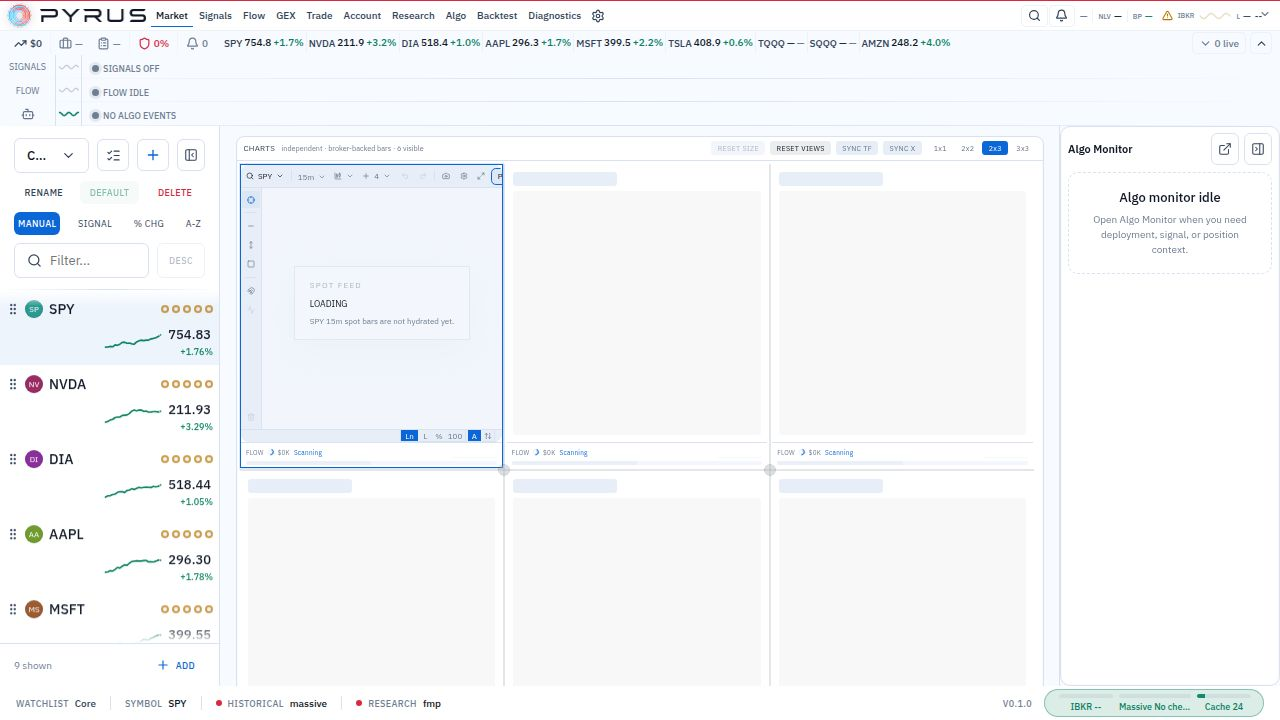
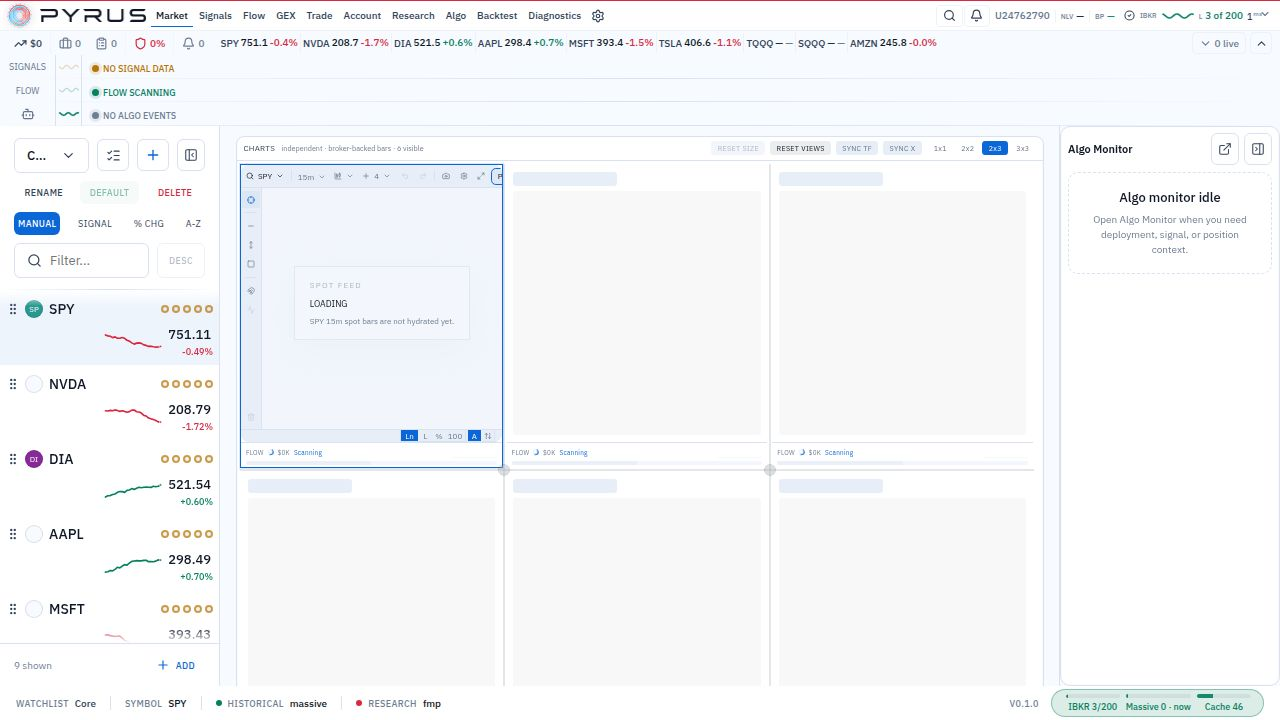
Wait for the API to be ready before starting the development server
Restore the API health check before starting Vite, preventing proxy errors and ensuring a stable development environment.

Replit-Commit-Author: Agent
Replit-Commit-Session-Id: d56ae97d-ce5b-4897-beba-c1c01ae8f27e
Replit-Commit-Checkpoint-Type: full_checkpoint
Replit-Commit-Event-Id: f6538f30-1441-4102-87b1-3e66792e4c58
Replit-Commit-Screenshot-Url: https://storage.googleapis.com/screenshot-production-us-central1/5950eeb6-fc7d-4b18-87e8-8d1c0536942f/d56ae97d-ce5b-4897-beba-c1c01ae8f27e/Wpt0JLG
Replit-Helium-Checkpoint-Created: true

diff --git a/SESSION_HANDOFF_2026-06-16_a110ef2f-bff5-445b-aabe-ae62b2b2351d.md b/SESSION_HANDOFF_2026-06-16_a110ef2f-bff5-445b-aabe-ae62b2b2351d.md
@@ -1,0 +1,306 @@
+# Session Handoff — 2026-06-16
+
+## Session Metadata
+
+- Session ID: `a110ef2f-bff5-445b-aabe-ae62b2b2351d`
+- Saved At (MT): `2026-06-16 13:31:50 MDT`
+- Saved At (UTC): `2026-06-16T19:31:50.126Z`
+- Summary: 2026-06-16 13:31:50 MDT | a110ef2f-bff5-445b-aabe-ae62b2b2351d | find the 4 sessions we just dropped, use [samples/Screenshot 2026-06-16 115601.png] to help you
+- Runtime: `claude`
+- Repo Root: `/home/runner/workspace`
+- Thread CWD: `/home/runner/workspace`
+- Transcript Path: `/home/runner/.claude/projects/-home-runner-workspace/a110ef2f-bff5-445b-aabe-ae62b2b2351d.jsonl`
+- Branch: `main`
+- HEAD: `11dbc3161be075a0243a753c26f7a8e23a58b22e`
+- Latest Commit: `Post-merge setup completed successfully`
+- Latest Commit Session ID: `d56ae97d-ce5b-4897-beba-c1c01ae8f27e`
+- Title: find the 4 sessions we just dropped, use [samples/Screenshot 2026-06-16 115601.png] to help you
+- Model: `claude-opus-4-8`
+- Reasoning Effort: `unknown`
+- Tokens Used: `unknown`
+
+## Current User Request
+
+find the 4 sessions we just dropped, use [samples/Screenshot 2026-06-16 115601.png] to help you
+
+## Prior Handoffs
+
+- `SESSION_HANDOFF_2026-06-13_019ec132-92d0-78c1-a21c-4f5d378afa46.md`
+- `SESSION_HANDOFF_2026-06-12_019ebe12-b4b7-7281-95b2-698b1d4bfc05.md`
+- `SESSION_HANDOFF_2026-06-12_019ebd74-8d06-7071-a225-67ce7a538918.md`
+- `SESSION_HANDOFF_2026-06-12_019ebd74-85d5-71a1-8b64-7624988e5a5b.md`
+- `SESSION_HANDOFF_2026-06-12_019ebd73-c854-73d0-99dd-2c4a8b381f19.md`
+- `SESSION_HANDOFF_2026-06-12_019ebcc7-8221-7bd1-bae0-aeef66f2a47c.md`
+- `SESSION_HANDOFF_2026-06-12_019ebc2a-0433-7f33-90eb-21fe32f49ab5.md`
+- `SESSION_HANDOFF_2026-06-12_019ebbdd-48b3-7190-9048-c79405308314.md`
+- `SESSION_HANDOFF_2026-06-12_019ebbd7-a838-7d13-a8d9-5d7897e14d0f.md`
+- `SESSION_HANDOFF_2026-06-12_019ebbd5-43cd-7c81-87a4-de8ee2a46199.md`
+- `SESSION_HANDOFF_2026-06-11_pending-sta-action-source-trace.md`
+- `SESSION_HANDOFF_2026-06-11_019eb95b-6597-74d2-929d-76355493dfbd.md`
+- `SESSION_HANDOFF_2026-06-11_019eb80c-7659-7300-92ce-22b8bd89275c.md`
+- `SESSION_HANDOFF_2026-06-11_019eb80c-5d1b-7d03-a551-1ec17ef91788.md`
+- `SESSION_HANDOFF_2026-06-11_019eb7fd-6cfb-7432-a96b-b65a23fee54d.md`
+- `SESSION_HANDOFF_2026-06-11_019eb7fb-f024-78a2-9fc3-058529429d01.md`
+- `SESSION_HANDOFF_2026-06-11_019eb7f1-23f6-7853-a3be-c4f5a00fce37.md`
+- `SESSION_HANDOFF_2026-06-11_019eb7f0-feb4-75c0-a144-af7a7eda05f8.md`
+- `SESSION_HANDOFF_2026-06-11_019eb7f0-db13-7a12-bd98-22efb8b7408a.md`
+- `SESSION_HANDOFF_2026-06-11_019eb7f0-ba1a-72f2-9be4-b9b0c91c873c.md`
+- `SESSION_HANDOFF_2026-06-11_019eb7ee-d363-7d01-bec6-79361d86915a.md`
+- `SESSION_HANDOFF_2026-06-11_019eb7e8-b0e1-7a63-aa86-8fde89eac69c.md`
+- `SESSION_HANDOFF_2026-06-11_019eb7d7-c610-76c1-9b43-25a82e66e5e2.md`
+- `SESSION_HANDOFF_2026-06-11_019eb7d0-5bce-75a3-8f85-74b2c38225fa.md`
+- `SESSION_HANDOFF_2026-06-11_019eb7c2-9c54-7870-8152-e6f9a6f9be6b.md`
+- `SESSION_HANDOFF_2026-06-11_019eb7b4-d4bd-7573-adf9-ae184361696f.md`
+- `SESSION_HANDOFF_2026-06-11_019eb7b2-4b1e-7160-9796-b203f9392d27.md`
+- `SESSION_HANDOFF_2026-06-11_019eb7a8-d0bc-7910-a8b5-aafaf1750bc1.md`
+- `SESSION_HANDOFF_2026-06-11_019eb7a8-9ba6-7ad1-9555-e8b647c6c363.md`
+- `SESSION_HANDOFF_2026-06-11_019eb7a3-d912-7ec3-8667-3c8c83630d72.md`
+- `SESSION_HANDOFF_2026-06-11_019eb788-9135-7151-a47f-38a32fe28fa5.md`
+- `SESSION_HANDOFF_2026-06-11_019eb77c-c335-7290-8f57-822c79025541.md`
+- `SESSION_HANDOFF_2026-06-10_019eb3df-e2f3-73f1-bb4c-18d95c4a5075.md`
+- `SESSION_HANDOFF_2026-06-09_019eaea5-da22-7eb0-b361-dd2339bb136a.md`
+- `SESSION_HANDOFF_2026-06-09_019eae66-0e88-7431-82ce-e7909cea1b55.md`
+- `SESSION_HANDOFF_2026-06-09_019eae19-7225-7e60-8c45-e32bd10b2c21.md`
+- `SESSION_HANDOFF_2026-06-09_019eae05-eacb-7d50-a8dd-8323ada25d22.md`
+- `SESSION_HANDOFF_2026-06-09_019eae02-420b-7fa1-953a-b1abcc2622bd.md`
+- `SESSION_HANDOFF_2026-06-09_019eadfc-2cd0-78f2-b041-bbb600dbade3.md`
+- `SESSION_HANDOFF_2026-06-09_019eade0-4046-70c3-975d-0cc3b0aee56a.md`
+- `SESSION_HANDOFF_2026-06-09_019eade0-0422-7320-bbc6-22643066d321.md`
+- `SESSION_HANDOFF_2026-06-09_019eadd8-e8e2-70c2-a7ff-fb5eefa135a4.md`
+- `SESSION_HANDOFF_2026-06-09_019eadd4-25b3-7b52-949e-eda0aa2eafa7.md`
+- `SESSION_HANDOFF_2026-06-09_019eadc4-e336-7472-87f1-7f6600f9b4b7.md`
+- `SESSION_HANDOFF_2026-06-09_019ead78-0a4d-79c0-8333-f9e67135e8ca.md`
+- `SESSION_HANDOFF_2026-06-09_019ead4a-2fc8-7b61-a989-2a78762f17c2.md`
+- `SESSION_HANDOFF_2026-06-09_019ead39-ed30-7151-916c-188f0a0c305d.md`
+- `SESSION_HANDOFF_2026-06-09_019eac9c-ec03-7de1-98f0-6421d5d8312a.md`
+- `SESSION_HANDOFF_2026-06-08_019eaac8-99ba-7072-9412-bf2eb1070bed.md`
+- `SESSION_HANDOFF_2026-06-08_019eaab5-1b86-7c60-875f-67b54a909239.md`
+- `SESSION_HANDOFF_2026-06-08_019eaa48-a445-7482-8aa5-21d669524581.md`
+- `SESSION_HANDOFF_2026-06-08_019eaa48-3cb6-7290-a56f-99c4a4af2d32.md`
+- `SESSION_HANDOFF_2026-06-08_019ea975-0cde-7cd2-a5bc-4892aee272c4.md`
+- `SESSION_HANDOFF_2026-06-08_019ea847-b017-7b53-a789-ccec852acccc.md`
+- `SESSION_HANDOFF_2026-06-08_019ea81a-ebe7-7642-a873-09562ba0de35.md`
+- `SESSION_HANDOFF_2026-06-08_019ea81a-819e-7841-9d0f-1e9a601a4691.md`
+- `SESSION_HANDOFF_2026-06-08_019ea814-21e3-7672-9b64-7eeae3ff07d2.md`
+- `SESSION_HANDOFF_2026-06-08_019ea813-0e32-7543-ab00-303e24d7008a.md`
+- `SESSION_HANDOFF_2026-06-08_019ea812-8281-75d2-b082-8e5b5be596db.md`
+- `SESSION_HANDOFF_2026-06-08_019ea765-6876-7d92-80df-62338c1ffa87.md`
+- `SESSION_HANDOFF_2026-06-08_019ea72c-b88f-7f52-9b85-87faa59c57e5.md`
+- `SESSION_HANDOFF_2026-06-08_019ea4a9-b0c1-70e0-aa79-7f3fc45be403.md`
+- `SESSION_HANDOFF_2026-06-07_019ea43b-d49a-7f52-b5c9-d587e6c6040c.md`
+- `SESSION_HANDOFF_2026-06-07_019ea437-deef-7981-9fe7-82c12513ffde.md`
+- `SESSION_HANDOFF_2026-06-06_019e9de4-91e7-72b0-8853-3f70fd908c3e.md`
+- `SESSION_HANDOFF_2026-06-06_019e9ddc-1936-7d52-a57b-de5e92b1a11e.md`
+- `SESSION_HANDOFF_2026-06-06_019e9d7d-0f96-7750-9f11-dd41d293e473.md`
+- `SESSION_HANDOFF_2026-06-06_019e9d7b-30c5-7502-b87c-0ac35e2d4f6f.md`
+- `SESSION_HANDOFF_2026-06-05_signal-bubble-pending-hydration.md`
+- `SESSION_HANDOFF_2026-06-05_semantic-tone-rollout.md`
+- `SESSION_HANDOFF_2026-06-05_019e9a07-2756-7dc0-87c1-f22ac5fc79db.md`
+- `SESSION_HANDOFF_2026-06-05_019e9a00-0ec7-7531-ba91-041f6bd63385.md`
+- `SESSION_HANDOFF_2026-06-05_019e99c5-dd2d-7000-a813-5d649c3f3428.md`
+- `SESSION_HANDOFF_2026-06-05_019e9923-d8b9-7fc1-91d6-02a81091fe1e.md`
+- `SESSION_HANDOFF_2026-06-05_019e9923-c551-74c0-8f7a-4f4419b923ee.md`
+- `SESSION_HANDOFF_2026-06-05_019e9923-1b8d-7cb0-9f8e-8cd49d80292a.md`
+- `SESSION_HANDOFF_2026-06-04_019e953f-041b-71c3-a43e-542a8ef6e00d.md`
+- `SESSION_HANDOFF_2026-06-04_019e9539-fcdb-7352-ba37-146876d76a81.md`
+- `SESSION_HANDOFF_2026-06-04_019e9539-e3ff-7141-9ec2-b2bdd077e69e.md`
+- `SESSION_HANDOFF_2026-06-04_019e9538-ef1f-70c0-9659-e0ad9176a023.md`
+- `SESSION_HANDOFF_2026-06-04_019e94a9-bc59-7e40-93d2-8f113348cca2.md`
+- `SESSION_HANDOFF_2026-06-04_019e940a-cceb-7790-889f-d5534cc0814c.md`
+- `SESSION_HANDOFF_2026-06-04_019e934b-5d2a-7ab2-8676-71145b8a4c03.md`
+- `SESSION_HANDOFF_2026-06-04_019e92c2-ff99-78e0-a36f-3ddb9c03a700.md`
+- `SESSION_HANDOFF_2026-06-04_019e92c1-77d0-7fd0-b7e3-01bb797e2227.md`
+- `SESSION_HANDOFF_2026-06-03_mtf-entry-sweep-ui.md`
+- `SESSION_HANDOFF_2026-06-03_019e909f-4ab7-7f32-9321-237e31de2032.md`
+- `SESSION_HANDOFF_2026-06-03_019e9091-8f8f-75c0-be2c-f9ccbaa788b4.md`
+- `SESSION_HANDOFF_2026-06-03_019e9071-13a9-7603-a5fd-ed951f5273d5.md`
+- `SESSION_HANDOFF_2026-06-03_019e906b-b44d-76d2-a8d5-020be84bba6e.md`
+- `SESSION_HANDOFF_2026-06-03_019e9066-b78f-7160-b516-c85c2e7fe345.md`
+- `SESSION_HANDOFF_2026-06-03_019e8ed9-7dcd-7812-982f-a2d96ed0676f.md`
+- `SESSION_HANDOFF_2026-06-03_019e8ed7-2665-7a70-8107-953700380a4b.md`
+- `SESSION_HANDOFF_2026-06-03_019e8e1a-67c0-7de1-a96e-f28098f0d355.md`
+- `SESSION_HANDOFF_2026-06-03_019e8e19-f0f6-7a02-b8da-97fb302cf399.md`
+- `SESSION_HANDOFF_2026-06-02_signals-timeframe-hydration.md`
+- `SESSION_HANDOFF_2026-06-02_signal-bubbles-matrix-diagnosis.md`
+- `SESSION_HANDOFF_2026-06-02_019e8afa-5620-70f1-a4b6-bf40e41e7aa5.md`
+- `SESSION_HANDOFF_2026-06-02_019e8afa-4637-70b2-971a-b6a37b9539b7.md`
+- `SESSION_HANDOFF_2026-06-02_019e8afa-10bc-76e0-96b3-1facd819d790.md`
+- `SESSION_HANDOFF_2026-06-02_019e8ac2-edd3-7d53-b81e-2ee862972acc.md`
+- `SESSION_HANDOFF_2026-06-02_019e8ac1-f364-7743-bee6-66c240b2b44d.md`
+- `SESSION_HANDOFF_2026-06-02_019e8aaa-6793-77b1-90fc-1e053f373563.md`
+- `SESSION_HANDOFF_2026-06-02_019e89ba-27c7-7560-804d-9a02b2a94b74.md`
+- `SESSION_HANDOFF_2026-06-02_019e89b9-c29e-7541-baf7-7d9d4d5803fd.md`
+- `SESSION_HANDOFF_2026-06-02_019e89a7-e15d-77f1-9820-862e90a38123.md`
+- `SESSION_HANDOFF_2026-06-02_019e898a-b316-7df3-8842-2f179ad5d122.md`
+- `SESSION_HANDOFF_2026-06-02_019e8972-55bb-7641-ab8b-02a041961ad6.md`
+- `SESSION_HANDOFF_2026-06-02_019e8971-d31f-7720-9983-d413f637e126.md`
+- `SESSION_HANDOFF_2026-06-02_019e8971-1dc4-75b2-9c36-4d78d5f75203.md`
+- `SESSION_HANDOFF_2026-06-02_019e889a-133d-75f3-922f-fc54c144ea94.md`
+- `SESSION_HANDOFF_2026-06-02_019e8897-3487-71b3-b357-5dcbc6b7ac6d.md`
+- `SESSION_HANDOFF_2026-06-02_019e8870-4fd3-7130-aa12-b6324b163918.md`
+- `SESSION_HANDOFF_2026-06-02_019e886f-b02b-70e1-8c40-018f3b7100e3.md`
+- `SESSION_HANDOFF_2026-06-01_75218067-d9b9-4264-8b7a-3243c1a06ca1.md`
+- `SESSION_HANDOFF_2026-06-01_019e862d-a38a-7a50-ab58-9801840e30fc.md`
+- `SESSION_HANDOFF_2026-06-01_019e862c-7a64-7982-b62e-6ed0423a8457.md`
+- `SESSION_HANDOFF_2026-06-01_019e8620-30a2-7792-8500-16c95843972c.md`
+- `SESSION_HANDOFF_2026-06-01_019e8583-e862-7bb1-8560-5db3658c7345.md`
+- `SESSION_HANDOFF_2026-06-01_019e856f-e49f-7fb0-941e-fd5c610c8e35.md`
+- `SESSION_HANDOFF_2026-06-01_019e856e-bffa-7833-b2b7-da4c35f1f4ed.md`
+- `SESSION_HANDOFF_2026-06-01_019e856e-09fe-7de1-b9bc-28878b14c985.md`
+- `SESSION_HANDOFF_2026-06-01_019e856c-a253-71f2-9ad3-d53939c3f375.md`
+- `SESSION_HANDOFF_2026-06-01_019e84ed-e068-7de2-ad5e-d900df7d26c1.md`
+- `SESSION_HANDOFF_2026-06-01_019e84aa-d2bd-7103-91a9-a73c9fcfb9c1.md`
+- `SESSION_HANDOFF_2026-06-01_019e84aa-c1d5-79e1-adba-5a743d03c8cc.md`
+- `SESSION_HANDOFF_2026-06-01_019e84aa-83ed-7462-8cd5-1c29cc47fbd7.md`
+- `SESSION_HANDOFF_2026-06-01_019e84aa-1f90-7b41-b68e-5b0b7120b56c.md`
+- `SESSION_HANDOFF_2026-06-01_019e8411-18fc-7911-9c4d-4aeecba402ac.md`
+- `SESSION_HANDOFF_2026-06-01_019e83a8-59ca-7843-b17d-1eb1b26d5363.md`
+- `SESSION_HANDOFF_2026-06-01_019e838b-6af5-7b72-b4aa-ee78a7bd3449.md`
+- `SESSION_HANDOFF_2026-06-01_019e8368-7762-7122-81b8-8a37bfbb0e60.md`
+- `SESSION_HANDOFF_2026-06-01_019e8366-b25f-7921-bbd5-2bfc17403296.md`
+- `SESSION_HANDOFF_2026-06-01_019e8361-9248-72a3-9743-ffd530b4d55e.md`
+- `SESSION_HANDOFF_2026-05-31_019e80a2-9969-70a2-a92d-39cf6a379925.md`
+- `SESSION_HANDOFF_2026-05-31_019e8076-ad60-7ee3-9c89-87f101b7545a.md`
+- `SESSION_HANDOFF_2026-05-31_019e802e-8fc0-77a0-8857-7f3208f84734.md`
+- `SESSION_HANDOFF_2026-05-31_019e802d-7aa8-7832-9d3b-d9a1f55357d2.md`
+- `SESSION_HANDOFF_2026-05-31_019e802d-21e9-7bf1-961a-4c205f226e9e.md`
+- `SESSION_HANDOFF_2026-05-31_019e7ff7-d9da-7333-9c5f-43f9156a8d45.md`
+- `SESSION_HANDOFF_2026-05-31_019e7fc7-29fb-7991-9d61-98d6224fb6da.md`
+- `SESSION_HANDOFF_2026-05-31_019e7fa4-ed2e-70e1-ac7f-a54fee386518.md`
+- `SESSION_HANDOFF_2026-05-31_019e7fa0-bbf9-7033-ad99-00fd18019559.md`
+- `SESSION_HANDOFF_2026-05-31_019e7f62-78ff-7773-a075-7f29d6a5269f.md`
+- `SESSION_HANDOFF_2026-05-31_019e7f59-b4e2-7303-9a13-63ee370879ca.md`
+- `SESSION_HANDOFF_2026-05-31_019e7f57-871a-71d2-8eb5-2662044d89b6.md`
+- `SESSION_HANDOFF_2026-05-31_019e7f57-3814-7572-a4ab-f649059f9b14.md`
+- `SESSION_HANDOFF_2026-05-31_019e7e9b-e240-7c30-98d2-a1ad94723f11.md`
+- `SESSION_HANDOFF_2026-05-30_019e7acd-c715-7200-b4a6-1bb0adf72b13.md`
+- `SESSION_HANDOFF_2026-05-30_019e7acd-1f10-7e00-9474-efbb5051b670.md`
+- `SESSION_HANDOFF_2026-05-30_019e7a9a-5ec9-7eb3-95f1-d0c5503ed8a0.md`
+- `SESSION_HANDOFF_2026-05-30_019e7a20-0e2f-73f1-ae20-ddf1fb495be5.md`
+- `SESSION_HANDOFF_2026-05-30_019e7995-e4a1-7bf2-b6a0-339a98d29317.md`
+- `SESSION_HANDOFF_2026-05-30_019e7994-2d67-7883-840f-7d3c3d92d721.md`
+- `SESSION_HANDOFF_2026-05-29_019e752f-259e-7553-9866-4b0c4544dd05.md`
+- `SESSION_HANDOFF_2026-05-29_019e752d-9895-7653-936f-31f010b764d5.md`
+- `SESSION_HANDOFF_2026-05-29_019e752a-b590-79a3-a82b-ee464537fd82.md`
+- `SESSION_HANDOFF_2026-05-29_019e7529-c353-7b83-a39a-5f8a0fe69745.md`
+- `SESSION_HANDOFF_2026-05-29_019e7499-013e-7c80-ad40-9c917f319149.md`
+- `SESSION_HANDOFF_2026-05-29_019e7442-882b-7a13-b625-d886421780aa.md`
+- `SESSION_HANDOFF_2026-05-29_019e742a-a3f1-71b3-8374-b51029016cbf.md`
+- `SESSION_HANDOFF_2026-05-29_019e7426-9371-7430-9a71-6686f1347001.md`
+- `SESSION_HANDOFF_2026-05-29_019e7421-ba22-78a1-a721-7446ea362dd7.md`
+- `SESSION_HANDOFF_2026-05-28_019e6f40-5f2f-78f1-afca-4032e91e55db.md`
+- `SESSION_HANDOFF_2026-05-28_019e6f32-5565-76d0-8ae0-06b4e2e30a0e.md`
+- `SESSION_HANDOFF_2026-05-28_019e6ea4-f32b-7261-8ca3-9d57cc9d40b5.md`
+- `SESSION_HANDOFF_2026-05-27_019e6bbb-f865-7563-96f6-ede09cfc4167.md`
+- `SESSION_HANDOFF_2026-05-26_019e654e-1409-7621-bde7-f8c231fda8d0.md`
+- `SESSION_HANDOFF_2026-05-26_019e6477-7493-7191-acfb-8aa632788e6c.md`
+- `SESSION_HANDOFF_2026-05-25_019e6049-463f-7ab0-a520-95e909a2eff6.md`
+- `SESSION_HANDOFF_2026-05-22_019e509e-5038-7b20-a757-cf053441bc8d.md`
+- `SESSION_HANDOFF_2026-05-22_019e5096-b2ce-7881-83b4-84fd5ae9aea9.md`
+- `SESSION_HANDOFF_2026-05-22_019e4fde-9151-7940-a16a-b90a6bf12517.md`
+- `SESSION_HANDOFF_2026-05-22_019e4fdd-cf2f-77a2-84e7-35d48584074b.md`
+- `SESSION_HANDOFF_2026-05-22_019e4fd1-20ef-7931-9b08-e4cc646ccb00.md`
+- `SESSION_HANDOFF_2026-05-21_019e4e27-3e58-7c51-a2ee-431ce0637c44.md`
+- `SESSION_HANDOFF_2026-05-21_019e4d5e-ddaa-7d22-90ff-4b3b56c16ab1.md`
+- `SESSION_HANDOFF_2026-05-21_019e4d5d-d653-7702-86a8-c20a83ee23ff.md`
+- `SESSION_HANDOFF_2026-05-21_019e4d5c-a277-71d0-afd5-4a740991a8c6.md`
+- `SESSION_HANDOFF_2026-05-21_019e4c7a-19cf-7740-84f6-5eb3a1f36fae.md`
+- `SESSION_HANDOFF_2026-05-21_019e4c26-0d56-7120-b85e-bf5e18f14721.md`
+- `SESSION_HANDOFF_2026-05-21_019e4c16-3a66-7302-8ada-1206e23e11df.md`
+- `SESSION_HANDOFF_2026-05-21_019e4c15-88e9-7a42-aad0-86eed917c98a.md`
+- `SESSION_HANDOFF_2026-05-21_019e4c14-fe5e-7802-970c-bae01f8b7212.md`
+- `SESSION_HANDOFF_2026-05-21_019e4acb-958e-76f2-89fc-f534179f2902.md`
+- `SESSION_HANDOFF_2026-05-20_019e46ed-0bc3-78f3-bad7-f7ca24065531.md`
+- `SESSION_HANDOFF_2026-05-20_019e45cf-44f8-7fe2-87f5-7d055c00513f.md`
+- `SESSION_HANDOFF_2026-05-20_019e45ab-830c-76d1-8f63-448f25c8f681.md`
+- `SESSION_HANDOFF_2026-05-20_019e45a3-68ab-7160-ab80-038d09482d6a.md`
+- `SESSION_HANDOFF_2026-05-19_019e4057-cc09-7610-9cd5-2b159d78b023.md`
+- `SESSION_HANDOFF_2026-05-14_019e26f3-cc37-7351-94a3-c52aae3be0c7.md`
+- `SESSION_HANDOFF_2026-05-13_019e21ab-042e-7d62-82c5-621bb214aaf4.md`
+- `SESSION_HANDOFF_2026-05-13_019e219a-97c1-7c81-a23d-86233b1a8ccc.md`
+- `SESSION_HANDOFF_2026-05-13_019e2194-a0c5-7fd1-8c6e-f3fd3869af34.md`
+- `SESSION_HANDOFF_2026-05-13_019e2191-5255-7b50-9d9d-d66432f7cc23.md`
+- `SESSION_HANDOFF_2026-05-13_019e2168-cce7-7f22-8a53-a394d6279949.md`
+- `SESSION_HANDOFF_2026-05-11_019e1777-ea5d-7a03-aa38-a7da139985d7.md`
+- `SESSION_HANDOFF_2026-05-08_019e0920-564f-78d0-8463-410e50e52b5d.md`
+- `SESSION_HANDOFF_2026-05-08_019e0826-0850-7bf2-8100-0b3eada42e32.md`
+- `SESSION_HANDOFF_2026-05-06_019dff8b-c488-7ec1-bab2-7eeca931697f.md`
+- `SESSION_HANDOFF_2026-05-06_019dff88-574a-74f3-8ead-27ea141dfd2f.md`
+- `SESSION_HANDOFF_2026-05-06_019dff6f-d657-70a2-bed9-7c3a2469bed7.md`
+- `SESSION_HANDOFF_2026-05-06_019dff68-fd69-7fd1-84aa-f97b89d2efe8.md`
+- `SESSION_HANDOFF_2026-05-06_019dff67-f5a1-7332-8624-585ac4cd1435.md`
+- `SESSION_HANDOFF_2026-05-06_019dff66-df3f-7bc1-abe4-39b68ed2dcff.md`
+- `SESSION_HANDOFF_2026-05-06_019dfe4d-4d96-7552-80ac-346c0646adb1.md`
+- `SESSION_HANDOFF_2026-05-06_019dfe49-d18c-7bd1-97d1-7e004ff154f0.md`
+- `SESSION_HANDOFF_2026-05-06_019dfe45-759c-77c0-b66f-9cc21addb43b.md`
+- `SESSION_HANDOFF_2026-05-06_019dfe1c-e228-72b2-932c-6d9faa06df81.md`
+
+## Recent User Messages
+
+- `2026-06-16 12:58:53 MDT` find the 4 sessions we just dropped, use [samples/Screenshot 2026-06-16 115601.png] to help you
+- `2026-06-16 13:01:40 MDT` [Request interrupted by user]
+- `2026-06-16 13:01:40 MDT` all have handoffs
+- `2026-06-16 13:09:30 MDT` i want to update how we do the handoffs progresively during sessions so we dont lose work and can find it easier
+
+## Session Activity Summary
+
+- `2026-06-16 12:58:53 MDT` User: find the 4 sessions we just dropped, use [samples/Screenshot 2026-06-16 115601.png] to help you
+- `2026-06-16 12:59:06 MDT` Agent: I'll start by invoking the session-handoff skill (this matches "find a dropped session") and looking at the screenshots you pointed me to.
+- `2026-06-16 12:59:07 MDT` Tool: Skill {"skill":"session-handoff","args":"recover the 4 dropped sessions from 2026-06-16"}
+- `2026-06-16 12:59:08 MDT` Tool: Read /home/runner/workspace/samples/Screenshot 2026-06-16 115601.png
+- `2026-06-16 12:59:08 MDT` Tool: Read /home/runner/workspace/samples/6-16 reconect lost sessions.png
+- `2026-06-16 12:59:58 MDT` Agent: Both screenshots show **4 parallel Claude Code terminal panes**, each a separate session in `~/workspace`, that got dropped. Reading the panes, I can already make out four distinc…
+- … 47 lower-signal transcript events omitted …
+- `2026-06-16 13:28:19 MDT` Tool: Write /home/runner/workspace/.claude/skills/session-handoff/scripts/claude-autosave-handoff.mjs
+- `2026-06-16 13:28:31 MDT` Agent: Now validate it and **dogfood it against this very session** — I'll back up the master/pointer first so I can confirm the upsert only adds one row.
+- `2026-06-16 13:28:40 MDT` Tool: Bash cd /home/runner/workspace echo "=== node --check ===" node --check .claude/skills/session-handoff/scripts/claude-autosave-handoff.mjs && echo "OK: syntax valid…
+- `2026-06-16 13:29:06 MDT` Agent: Exit 0, handoff created. Let me inspect the generated content and confirm the master index only gained one row (format intact).
+- `2026-06-16 13:29:09 MDT` Tool: Bash cd /home/runner/workspace SID="a110ef2f-bff5-445b-aabe-ae62b2b2351d" echo "=== generated handoff: metadata + a few sections (head) ===" sed -n '1,40p' "SESSION…
+- `2026-06-16 13:29:12 MDT` Tool: Bash cd /home/runner/workspace echo "=== MASTER diff (before -> after): should be ONE new row for our session ===" diff <(cat /tmp/MASTER.before) <(cat SESSION_HAND…
+- `2026-06-16 13:30:30 MDT` Agent: The dogfood is working correctly: real metadata captured (`runtime: claude`, model `claude-opus-4-8`, transcript path, this session's actual messages + tool activity), master gain…
+- `2026-06-16 13:30:38 MDT` Tool: Edit /home/runner/workspace/.claude/skills/session-handoff/scripts/claude-autosave-handoff.mjs
+- `2026-06-16 13:30:50 MDT` Agent: Re-test: confirm the handoff is now lean and the edge cases (SessionStart digest, subagent/empty payloads) all behave.
+- `2026-06-16 13:31:00 MDT` Tool: Bash cd /home/runner/workspace SID="a110ef2f-bff5-445b-aabe-ae62b2b2351d" TP="/home/runner/.claude/projects/-home-runner-workspace/${SID}.jsonl" node --check .claud…
+
+## High-Signal Changed Files
+
+- `SESSION_HANDOFF_CURRENT.md`
+- `SESSION_HANDOFF_MASTER.md`
+- `artifacts/pyrus/scripts/runDevApp.mjs`
+
+## Repo State Snapshot
+
+```text
+## main...origin/main [ahead 6]
+ M SESSION_HANDOFF_CURRENT.md
+ M SESSION_HANDOFF_MASTER.md
+ M artifacts/pyrus/scripts/runDevApp.mjs
+?? SESSION_HANDOFF_2026-06-16_a110ef2f-bff5-445b-aabe-ae62b2b2351d.md
+```
+
+## Diff Summary
+
+```text
+ SESSION_HANDOFF_CURRENT.md            | 39 +++++++++--------------------------
+ SESSION_HANDOFF_MASTER.md             |  5 +++--
+ artifacts/pyrus/scripts/runDevApp.mjs | 19 ++++-------------
+ 3 files changed, 17 insertions(+), 46 deletions(-)
+```
+
+## Validations Detected In Transcript
+
+- `2026-06-16 13:27:32 MDT` cd /home/runner/workspace echo "=== node --check (syntax) ===" node --check .claude/skills/session-handoff/scripts/write-session-handoff.mjs && echo "OK: synta… (ok)
+- `2026-06-16 13:29:01 MDT` cd /home/runner/workspace echo "=== node --check ===" node --check .claude/skills/session-handoff/scripts/claude-autosave-handoff.mjs && echo "OK: syntax valid… (ok)
+
+## What Changed This Session
+
+- Replace this section with the concrete product and code changes completed in the session.
+
+## Current Status
+
+- Replace this section with current validation status, blockers, and any known runtime gaps.
+
+## Next Recommended Steps
+
+1. Replace this item with the highest-priority next step.
+2. Replace this item with the next validation or bring-up step.

diff --git a/SESSION_HANDOFF_CURRENT.md b/SESSION_HANDOFF_CURRENT.md
@@ -2,42 +2,23 @@
 
 This is a pointer to the active durable handoff. Do not use this file as the full session narrative.
 
-- Last Updated (MT): `2026-06-13 10:24:43 MDT`
-- Last Updated (UTC): `2026-06-13T16:24:43Z`
-- Native Codex Session ID: `019ec132-92d0-78c1-a21c-4f5d378afa46`
-- Summary: Broker connection audit plus fast-launch, bridge-status, direct Windows protocol credential-handoff, and hidden-tab launch-wait fixes.
-- Handoff: `SESSION_HANDOFF_2026-06-13_019ec132-92d0-78c1-a21c-4f5d378afa46.md`
+- Last Updated (MT): `2026-06-16 13:31:23 MDT`
+- Last Updated (UTC): `2026-06-16T19:31:23.783Z`
+- Session ID: `a110ef2f-bff5-445b-aabe-ae62b2b2351d`
+- Summary: 2026-06-16 13:31:23 MDT | a110ef2f-bff5-445b-aabe-ae62b2b2351d | find the 4 sessions we just dropped, use [samples/Screenshot 2026-06-16 115601.png] to help you
+- Handoff: `SESSION_HANDOFF_2026-06-16_a110ef2f-bff5-445b-aabe-ae62b2b2351d.md`
 - Master Index: `SESSION_HANDOFF_MASTER.md`
 
 ## Current Status
 
-- Broker connection audit completed; frontend credential recovery fix implemented, Playwright dummy UI path validated, fast-launch rebuild implemented, bridge-status regression fixed, direct Windows protocol launch now keeps the Pyrus page alive for credential delivery, and hidden/backgrounded pages no longer wait indefinitely on launch `requestAnimationFrame`.
-- Main live finding: PowerShell/helper launch was fast; the original failure was browser credential delivery not reading the published helper key.
-- New launch-process fix removes desktop-agent `/desktop/jobs/claim` long-poll, removes the extra PowerShell process on remote launch, removes the blind 3s Gateway-start sleep, and removes browser `/login-key/read` long-poll.
-- Existing nearby model/readiness tests pass, but no tests cover `listBrokerConnections()`.
-- Playwright browser QA tooling is installed at the root: `@playwright/test@1.60.0`; Chromium headless smoke passed.
-- Backend watcher during Playwright found normal credential-handoff transitions, but also separate API/event-loop stall samples with endpoint delays up to `26-38s` outside the core handoff.
-- Latest regression root cause: `/api/diagnostics/runtime` had bridge backoff/reconnect failure details and stale helper update status, but `/api/session` stripped compact runtime fields and hid stale helper status when the desktop was offline.
-- Latest live watch root cause: direct Windows launch used `_self` custom-protocol navigation before credential delivery, so browser JS did not promptly call `/login-key/read` or post the encrypted credential envelope.
-- Latest source-level timing fix: launch/credential flow no longer awaits uncapped `requestAnimationFrame`, so minimizing/backgrounding the page cannot freeze the pre-launch feedback wait.
+- Replace this section with current validation status, blockers, and any known runtime gaps.
 
 ## Next Recommended Steps
 
-1. Refresh/rebuild Pyrus so `ibkrBridgeSession.js` uses the iframe launcher and `ibkrBridgeLaunchFeedback.js` uses the hidden-tab frame-wait fallback, cancel/replace the stuck activation, then retry the direct Windows launch.
-2. Confirm `/login-key/read` fires immediately after `credential_key_published` and `/login-envelope` follows.
-3. Add backend tests for `listBrokerConnections()` and frontend snapshot coverage for stale ready connection evidence plus fresh runtime disconnect diagnostics.
+1. Replace this item with the highest-priority next step.
+2. Replace this item with the next validation or bring-up step.
 
 ## Validation Snapshot
 
-- `pnpm --filter @workspace/pyrus exec tsx --test src/features/platform/ibkrConnectionSnapshot.test.mjs src/features/platform/ibkrPopoverModel.test.mjs src/features/platform/ibkrConnectionCredentialActionModel.test.mjs src/features/platform/appWorkScheduler.test.mjs` passed.
-- `pnpm --filter @workspace/api-server exec tsx --test src/services/platform-bridge-health.test.ts src/services/readiness.test.ts src/services/ibkr-account-bridge.test.ts` passed.
-- `pnpm exec node --test artifacts/pyrus/src/features/platform/ibkrConnectionCredentialActionModel.test.mjs` passed.
-- `pnpm --filter @workspace/pyrus run typecheck` passed.
-- Direct dummy handoff reached envelope accepted and `gateway_process_started`, then canceled activation.
-- `pnpm exec playwright --version` returned `Version 1.60.0`; headless Chromium smoke passed.
-- Playwright dummy UI path reached encrypted-envelope delivery, then canceled activation; screenshots/result saved under `.gstack/qa-reports/screenshots/ibkr-playwright-2026-06-13T15-01-39-953Z/`.
-- React `background`/`backgroundSize` warning in the IBKR step connector was fixed; `pnpm exec node --test artifacts/pyrus/src/features/platform/HeaderStatusCluster.test.mjs` passed; Playwright console re-check had no warnings/errors.
-- Fast-launch rebuild validation passed: `pnpm exec node --test scripts/windows/pyrus-ibkr-helper.test.mjs`, API bridge runtime test, Pyrus credential/snapshot tests, API typecheck, and Pyrus typecheck.
-- Bridge-status regression validation passed: API bridge runtime tests, API platform bridge health tests, Pyrus header/snapshot/popover/bridge-session tests, API typecheck, Pyrus typecheck, and scoped `git diff --check`.
-- Direct-launch credential-stall validation passed: Pyrus bridge-session/header/credential tests, Pyrus typecheck, and scoped `git diff --check`.
-- Hidden/backgrounded page launch-wait validation passed: `ibkrBridgeLaunchFeedback`/header/bridge-session/credential focused tests, Pyrus typecheck, and scoped `git diff --check`.
+- `2026-06-16 13:27:32 MDT` cd /home/runner/workspace echo "=== node --check (syntax) ===" node --check .claude/skills/session-handoff/scripts/write-session-handoff.mjs && echo "OK: synta… (ok)
+- `2026-06-16 13:29:01 MDT` cd /home/runner/workspace echo "=== node --check ===" node --check .claude/skills/session-handoff/scripts/claude-autosave-handoff.mjs && echo "OK: syntax valid… (ok)

diff --git a/SESSION_HANDOFF_MASTER.md b/SESSION_HANDOFF_MASTER.md
@@ -1,12 +1,13 @@
 # Session Handoff Master
 
-Changelog and table of contents for durable per-session handoff files. Keep details in the linked session handoff; keep this file short and searchable by date, time, native Codex session ID, and summary.
+Changelog and table of contents for durable per-session handoff files. Keep details in the linked session handoff; keep this file short and searchable by date, time, session ID, and summary.
 
 ## Sessions
 
 | Last Updated (MT) | Session ID | Summary | Handoff | Status | Next Step |
 | --- | --- | --- | --- | --- | --- |
-| 2026-06-13 10:24:43 MDT | `019ec132-92d0-78c1-a21c-4f5d378afa46` | Broker connection audit, fast-launch rebuild, bridge-status fix, direct Windows protocol credential-handoff fix, and hidden-tab launch-wait fix. | `SESSION_HANDOFF_2026-06-13_019ec132-92d0-78c1-a21c-4f5d378afa46.md` | Source/tests/typechecks pass; live watch showed helper/key ready fast but `_self` protocol navigation delayed browser credential delivery until timeout; source review also found uncapped `requestAnimationFrame` wait. | Refresh/rebuild Pyrus, cancel/replace stuck activation, then confirm `/login-key/read` and `/login-envelope` fire immediately after key publish even if the UI is hidden/backgrounded. |
+| 2026-06-16 13:31:23 MDT | `a110ef2f-bff5-445b-aabe-ae62b2b2351d` | 2026-06-16 13:31:23 MDT \| a110ef2f-bff5-445b-aabe-ae62b2b2351d \| find the 4 sessions we just dropped, use [samples/Scre… | `SESSION_HANDOFF_2026-06-16_a110ef2f-bff5-445b-aabe-ae62b2b2351d.md` | Saved; see handoff | See handoff. |
+| 2026-06-13 10:24:43 MDT | `019ec132-92d0-78c1-a21c-4f5d378afa46` | Broker connection audit, fast-launch rebuild, bridge-status fix, direct Windows protocol credential-handoff fix, and hi… | `SESSION_HANDOFF_2026-06-13_019ec132-92d0-78c1-a21c-4f5d378afa46.md` | Source/tests/typechecks pass; live watch showed helper/key ready fast but `_self` protocol navigation delayed browser c… | Refresh/rebuild Pyrus, cancel/replace stuck activation, then confirm `/login-key/read` and `/login-envelope` fire immed… |
 | 2026-06-12 18:13:34 MDT | `019ebe12-b4b7-7281-95b2-698b1d4bfc05` | 2026-06-12 18:13:34 MDT \| 019ebe12-b4b7-7281-95b2-698b1d4bfc05 \| pleas look in uncommited work for the session that jus… | `SESSION_HANDOFF_2026-06-12_019ebe12-b4b7-7281-95b2-698b1d4bfc05.md` | Saved; see handoff | See handoff. |
 | 2026-06-12 14:37:34 MDT | `019ebd74-8d06-7071-a225-67ce7a538918` | 2026-06-12 14:37:34 MDT \| 019ebd74-8d06-7071-a225-67ce7a538918 \| can you please help me with a $code-simplification? | `SESSION_HANDOFF_2026-06-12_019ebd74-8d06-7071-a225-67ce7a538918.md` | Saved; see handoff | See handoff. |
 | 2026-06-12 14:37:34 MDT | `019ebd73-c854-73d0-99dd-2c4a8b381f19` | 2026-06-12 14:37:34 MDT \| 019ebd73-c854-73d0-99dd-2c4a8b381f19 \| please find the most recent work of the 3 sessions we… | `SESSION_HANDOFF_2026-06-12_019ebd73-c854-73d0-99dd-2c4a8b381f19.md` | Saved; see handoff | See handoff. |